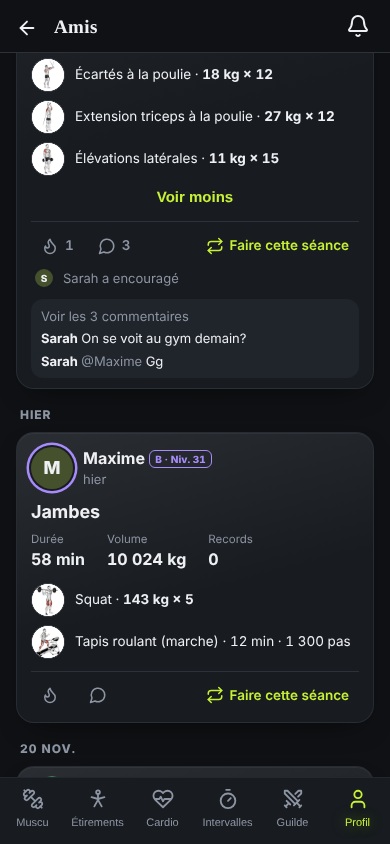
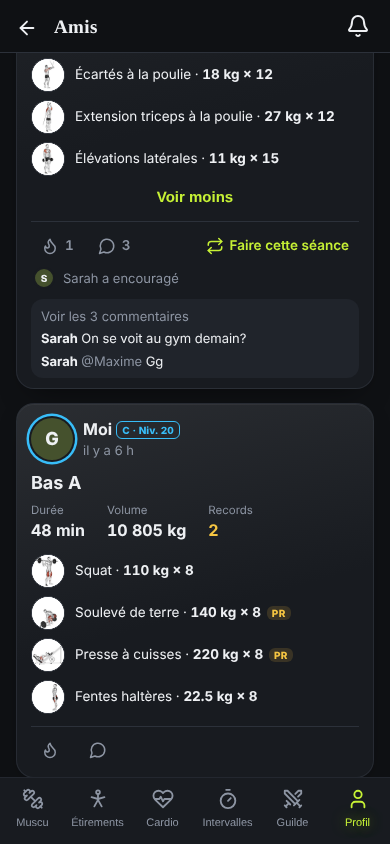
v9.116.0 : fiche sociale à part (un j'aime n'envoie plus toute la fiche), photos de progrès des amis corrigées
Claude-Session: https://claude.ai/code/session_014VBvzn7cPipHkoepy8RC9p

Changed region(s): [[0.0308, 0.4621, 0.9231, 0.9242], [0.5231, 0.5853, 0.6462, 0.6777], [0.2154, 0.8626, 0.2769, 0.9242]]

diff --git a/index.html b/index.html
@@ -6732,9 +6732,9 @@ function safeCard(raw) { // carte d'un ami
   d.s = sArr(d.s, 60).map(s => {
     const o = {...s, id: sStr(s.id, 60), n: sStr(s.n, 80), d: sStr(s.d, 40), dur: sNum(s.dur), pr: sInt(s.pr, 0, 0, 99),
       ex: sArr(s.ex, 60).map(x => { const e = {n: sStr(x.n, 100), ns: sInt(x.ns, 0, 0, 99), r: sNum(x.r)}; if (x.k === 'c' || x.k === 's') e.k = x.k; if (x.st != null) e.st = sNum(x.st); if (x.kc != null) e.kc = sNum(x.kc); if (x.w != null) e.w = sNum(x.w); if (x.u === 'kg' || x.u === 'lb') e.u = x.u; if (x.pr) e.pr = 1; return e; })};
-    delete o.img; const im = sImg(s.img); if (im) o.img = im; return o;
+    delete o.img; delete o.pi; const im = sImg(s.img); if (im) o.img = im; const pi = sStr(s.pi, 80).replace(/[^A-Za-z0-9_-]/g, ''); if (pi) o.pi = pi; return o;
   }).filter(s => s.id && s.d);
-  d.p = sArr(d.p, 20).map(x => ({id: sStr(x.id, 60), d: sStr(x.d, 20), img: sImg(x.img)})).filter(x => x.id && x.img);
+  d.p = sArr(d.p, 20).map(x => ({id: sStr(x.id, 60), d: sStr(x.d, 20), img: sImg(x.img), pi: sStr(x.pi, 80).replace(/[^A-Za-z0-9_-]/g, '')})).filter(x => x.id && (x.img || x.pi)); // pi : photo rangée à part (users/{uid}/ph)
   d.re = sArr(d.re, 400).map(x => ({to: sStr(x.to, 140), s: sStr(x.s, 60), e: sStr(x.e, 8), d: sStr(x.d, 40)}));
   d.cm = sArr(d.cm, 200).map(x => ({...x, to: sStr(x.to, 140), s: sStr(x.s, 60), t: sStr(x.t, 300), d: sStr(x.d, 40)}));
   return d;
@@ -6855,9 +6855,10 @@ function doImport() {
 
 
 /* ===================== Nouveautés (à mettre à jour à chaque version) ===================== */
-const APP_VERSION = '9.115.0'; // ⚠ Mettre aussi le même numéro dans version.json (sinon pas de mise à jour automatique)
+const APP_VERSION = '9.116.0'; // ⚠ Mettre aussi le même numéro dans version.json (sinon pas de mise à jour automatique)
 /* Notes de mise à jour : UNE seule entrée par jour. Si une entrée existe déjà pour aujourd'hui, mets-la à jour (v = dernière version, ajoute/réécris les puces) au lieu d'en ajouter une nouvelle. */
 const CHANGELOG = [
+  {v: '9.116.0', d: '2026-11-22', fr: ['Amis encore plus légers : encouragements, commentaires, défis, raid et séance en direct passent par une petite fiche à part. Un « j\'aime » ne renvoie plus toute ta fiche à tes amis.', 'Correction : les photos de progrès de tes amis s\'affichent de nouveau dans le fil.'], en: ['Even lighter friends: cheers, comments, challenges, raid and live workout go through a small separate card. A like no longer resends your whole card to your friends.', 'Fix: your friends\' progress photos show in the feed again.']},
   {v: '9.115.0', d: '2026-11-22', fr: ['Signaler et bloquer : touche un joueur dans ta ligue ou le classement mondial, ou ouvre le profil d\'un ami, pour le signaler ou le bloquer. Un commentaire peut aussi être signalé. Les personnes bloquées sont dans Amis → Ce que tes amis voient.', 'Filtre de mots : insultes et propos haineux masqués, et pseudos ou noms grossiers refusés dans les ligues et le classement.', 'Ligues plus justes : plafonds réalistes d\'XP (3 séances par jour, 60 séries et 15 records par séance au plus) et scores impossibles écartés.'], en: ['Report and block: tap a player in your league or the world ranking, or open a friend\'s profile, to report or block them. A comment can be reported too. Blocked people are in Friends → What friends see.', 'Word filter: insults and hate speech masked, and rude usernames or names refused in leagues and the ranking.', 'Fairer leagues: realistic XP caps (3 workouts a day, 60 sets and 15 records per workout at most) and impossible scores removed.']},
   {v: '9.114.0', d: '2026-11-22', fr: ['Fil des amis plus léger : les photos ne sont plus dans ta fiche d\'ami. Chacune est envoyée une seule fois, chargée seulement quand elle arrive à l\'écran, puis gardée sur ton téléphone. Le fil se charge plus vite et utilise beaucoup moins de données.'], en: ['Lighter friends feed: photos are no longer inside your friend card. Each one is sent once, loaded only when it comes on screen, then kept on your phone. The feed loads faster and uses much less data.']},
   {v: '9.113.2', d: '2026-11-22', fr: ['Ligues : groupes de 30 aventuriers au plus, formés dans l\'ordre d\'arrivée de la semaine, pour que les ligues restent justes même avec des milliers de joueurs.'], en: ['Leagues: groups of at most 30 adventurers, formed in order of arrival each week, so leagues stay fair even with thousands of players.']},
@@ -8694,13 +8695,16 @@ async function fbPublish(touch) {
   try {
     let body = await frCardBody();
     try { body = JSON.stringify(await fbPhOut(JSON.parse(body), u.uid)); } catch (e) {} // si les règles ne le permettent pas encore : photos dans la fiche comme avant
+    try { body = await fbSocOut(body, u.uid); } catch (e) {} // encouragements, commentaires, raid… dans une petite fiche à part
+    const cardKey = body.replace(/"up":"[^"]*"/, '');
+    if (cardKey === fr.cardJ && !touch && !fr.pendingCard) { fr.pending = false; fr.err = ''; fr.last = new Date().toISOString(); fr.sig = frSig(); frBusy = false; saveLocal(); lbPush(); if (frAgain) { frAgain = false; setTimeout(() => frPublish(false), 300); } return; } // rien de neuf dans la fiche principale
     if (body.length > 900000) { const o = JSON.parse(body); o.p = (o.p || []).slice(-3); body = JSON.stringify(o); if (body.length > 900000) { o.p = []; (o.s || []).forEach(x => delete x.img); body = JSON.stringify(o); } }
     const sig = frSig();
     if (fbPubW) { throw new Error(T('envoi précédent pas encore arrivé', 'previous send not arrived yet')); }
     const w = fbPubW = fbDb().collection('users').doc(u.uid).set({card: body, name: (S.settings.name || '').trim(), code: fr.code || '', up: new Date().toISOString()}, {merge: true});
     w.then(() => { if (fbPubW === w) fbPubW = null; if (FRS().pending) frQueue(false); }, () => { if (fbPubW === w) fbPubW = null; });
     await Promise.race([w, new Promise((_, no) => setTimeout(() => no(new Error(T('connexion trop lente', 'connection too slow'))), 25000))]);
-    fr.pending = false; fr.err = ''; fr.last = new Date().toISOString(); fr.sig = sig; fr.pubName = (S.settings.name || '').trim();
+    fr.pending = false; fr.err = ''; fr.last = new Date().toISOString(); fr.sig = sig; fr.pubName = (S.settings.name || '').trim(); fr.cardJ = body.replace(/"up":"[^"]*"/, '');
     try { const hid = new Set(fr.hide || []), hs = S.history.filter(h => !hid.has(h.id)), L = hs[hs.length - 1]; if (L && fr.lastId !== L.id) fbDb().collection('users').doc(u.uid).set({last: {id: String(L.id), n: String(L.routineName || '').slice(0, 60), d: new Date(L.date).toISOString()}}, {merge: true}).then(() => { FRS().lastId = L.id; saveLocal(); }, () => {}); } catch (e) {}
   } catch (e) { fr.pending = true; fr.err = e.message || String(e); }
   frBusy = false; saveLocal(); lbPush(); hPub();
@@ -8743,6 +8747,22 @@ async function repSend(k) {
     ${isBlk(c.u) ? '' : `<button class="btn block" style="margin-top:8px;color:var(--bad)" data-act="usr-blk" data-u="${c.u}" data-n="${esc(c.n)}">${T('Bloquer aussi', 'Block as well')} ${esc(c.n)}</button>`}<button class="btn primary block" style="margin-top:8px" data-act="close">OK</button>`);
 }
 
+/* ---------- Fiche sociale à part : users/{uid}/x/soc ----------
+   Un « j'aime », un commentaire ou un coup au boss ne renvoie plus toute la fiche à chaque ami : seulement cette petite fiche. */
+const SOCK = ['re', 'cm', 'ch', 'ca', 'cn', 'cp', 'rd', 'rdp', 'lw', 'sx', 'sxp', 'cw'];
+async function fbSocOut(body, uid) {
+  const fr = FRS(), o = JSON.parse(body), soc = {}; SOCK.forEach(k => { if (k in o) soc[k] = o[k]; });
+  const j = JSON.stringify(soc);
+  if (j !== fr.socJ || !fr.socOk) { try { await fbDb().collection('users').doc(uid).collection('x').doc('soc').set({j, up: new Date().toISOString()}); fr.socJ = j; fr.socOk = 1; } catch (e) { fr.socOk = 0; return body; } } // règles pas encore là : tout reste dans la fiche
+  SOCK.forEach(k => delete o[k]); o.so = 1; return JSON.stringify(o);
+}
+const frSocPend = {};
+function frSocIn(c, j) { // fiche sociale reçue d'un ami : vérifiée, puis fusionnée dans sa fiche
+  let raw; try { raw = JSON.parse(j); } catch (e) { return null; } if (!raw || typeof raw !== 'object') return null;
+  const d = safeCard({app: 'carnet-muscu', name: '', ...raw}); if (!d) return null; const o = {}; SOCK.forEach(k => { if (k in d) o[k] = d[k]; }); return o;
+}
+function frSocMerge(c) { const x = frData[c], so = frSocPend[c]; if (x && x.d && x.d.so && so) Object.assign(x.d, so); }
+
 /* ---------- Photos des amis hors de la fiche ----------
    Avant : les photos étaient dans la fiche (jusqu'à 900 Ko), renvoyée en entier à chaque « j'aime ». Avec des milliers d'utilisateurs, c'est
    des dizaines de Go par mois. Maintenant : users/{uid}/ph/{id}, envoyée une seule fois, lue seulement quand elle arrive à l'écran, puis gardée sur le téléphone. */
@@ -8770,7 +8790,9 @@ async function fbFetch(c) {
   const u = await fbSignIn(false); if (!u) throw new Error(T('connexion Amis requise', 'Friends sign-in required'));
   const doc = await fbDb().collection('users').doc(c.slice(3)).get();
   if (!doc.exists || !doc.data().card) throw new Error('gone');
-  const d = cardIn(JSON.parse(doc.data().card), doc.data().h); if (!d) throw new Error('gone'); return d;
+  const d = cardIn(JSON.parse(doc.data().card), doc.data().h); if (!d) throw new Error('gone');
+  if (d.so) { try { const sd = await fbDb().collection('users').doc(c.slice(3)).collection('x').doc('soc').get(); const o = sd.exists ? frSocIn(c, String(sd.data().j || '')) : null; if (o) { frSocPend[c] = o; Object.assign(d, o); } } catch (e) {} }
+  return d;
 }
 async function fbResolve(code) {
   const d = await fbDb().collection('codes').doc(code.toUpperCase()).get();
@@ -8783,6 +8805,7 @@ async function fbNotifyAdd(c) {
 }
 const fbRerender = () => { clearTimeout(fbRT); fbRT = setTimeout(() => { frSaveCache(); saveLocal(); try { socialCheck(); } catch (e) {} if (['friends', 'profile', 'guild'].includes(cur().v) && !modals.length && cur().v !== 'workout') render(); }, 400); };
 /* Écoute en direct : les cartes de mes amis + les nouvelles demandes d'amis */
+const fbSocSubs = {};
 function fbWatch() {
   if (typeof firebase === 'undefined' || !firebase.apps.length) return;
   const u = firebase.auth().currentUser; if (!u) return;
@@ -8796,8 +8819,16 @@ function fbWatch() {
       const raw = doc.data().card, live = safeLive(doc.data().live), prev = frData[c], hd = sH(doc.data().h);
       if (prev && prev.raw === raw && (prev.d.h || '') === hd && JSON.stringify(prev.live || null) === JSON.stringify(live)) return; // rien de nouveau : pas de rechargement de la page
       let d; try { d = cardIn(JSON.parse(raw), hd); } catch (e) { return; } if (!d) return;
-      frData[c] = {d, raw, t: Date.now(), live}; if (f) { f.n = d.name; f.gone = false; f.err = ''; } fbRerender();
+      frData[c] = {d, raw, t: Date.now(), live}; frSocMerge(c); if (f) { f.n = d.name; f.gone = false; f.err = ''; } fbRerender();
     }, e => { const f = FRS().list.find(x => x.c === c); if (f) f.err = e.code || e.message; });
+  });
+  Object.keys(fbSocSubs).forEach(c => { if (!want.includes(c)) { fbSocSubs[c](); delete fbSocSubs[c]; delete frSocPend[c]; } });
+  want.forEach(c => {
+    if (fbSocSubs[c]) return;
+    fbSocSubs[c] = fbDb().collection('users').doc(c.slice(3)).collection('x').doc('soc').onSnapshot(doc => {
+      if (!doc.exists) return; const j = String(doc.data().j || ''); if (frSocPend[c] && frSocPend[c]._j === j) return;
+      const o = frSocIn(c, j); if (!o) return; Object.defineProperty(o, '_j', {value: j, enumerable: false}); frSocPend[c] = o; frSocMerge(c); fbRerender();
+    }, () => {}); // règles pas encore là ou ami pas encore passé à la fiche sociale : rien à faire
   });
   if (!fbInbox) fbInbox = fbDb().collection('inbox').doc(u.uid).collection('m').onSnapshot(qs => {
     qs.docChanges().forEach(ch => {
